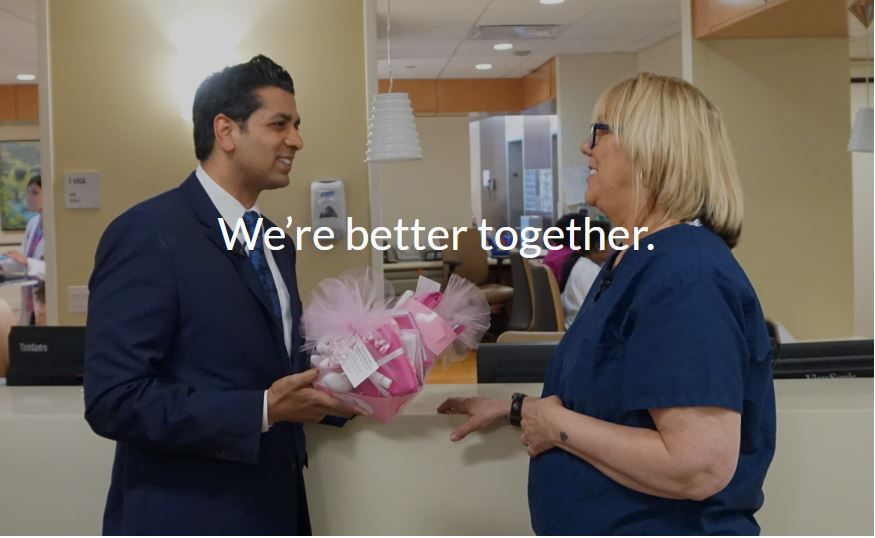
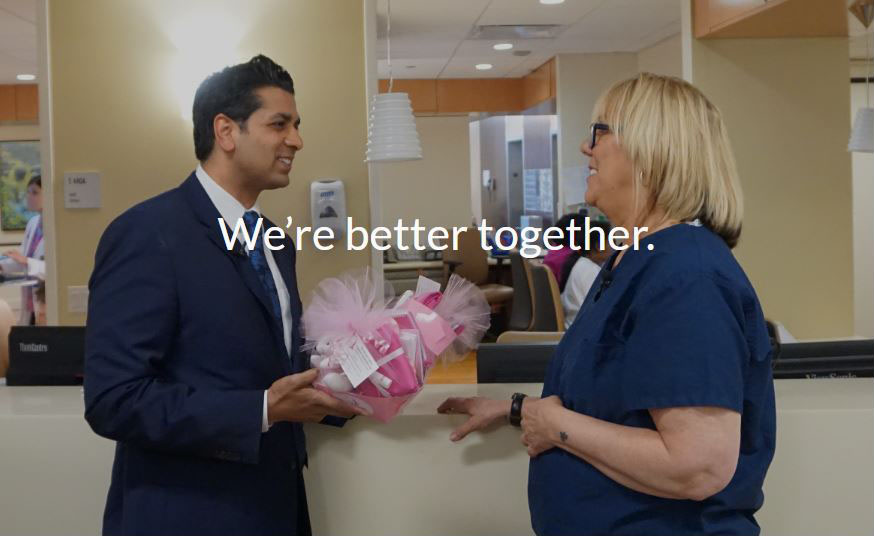
added hero image to donate page

diff --git a/pages/donate.js b/pages/donate.js
@@ -14,9 +14,9 @@ export default function Donate() {
       <Nav />
 
       <main className={styles.main}>
-        <h1 className={styles.title}>
-          DONATE
-        </h1>
+          <div className='img-container'>
+            <img src='/donate/better-together.jpg' alt='' />
+          </div>
       </main>
 
       <Footer />
